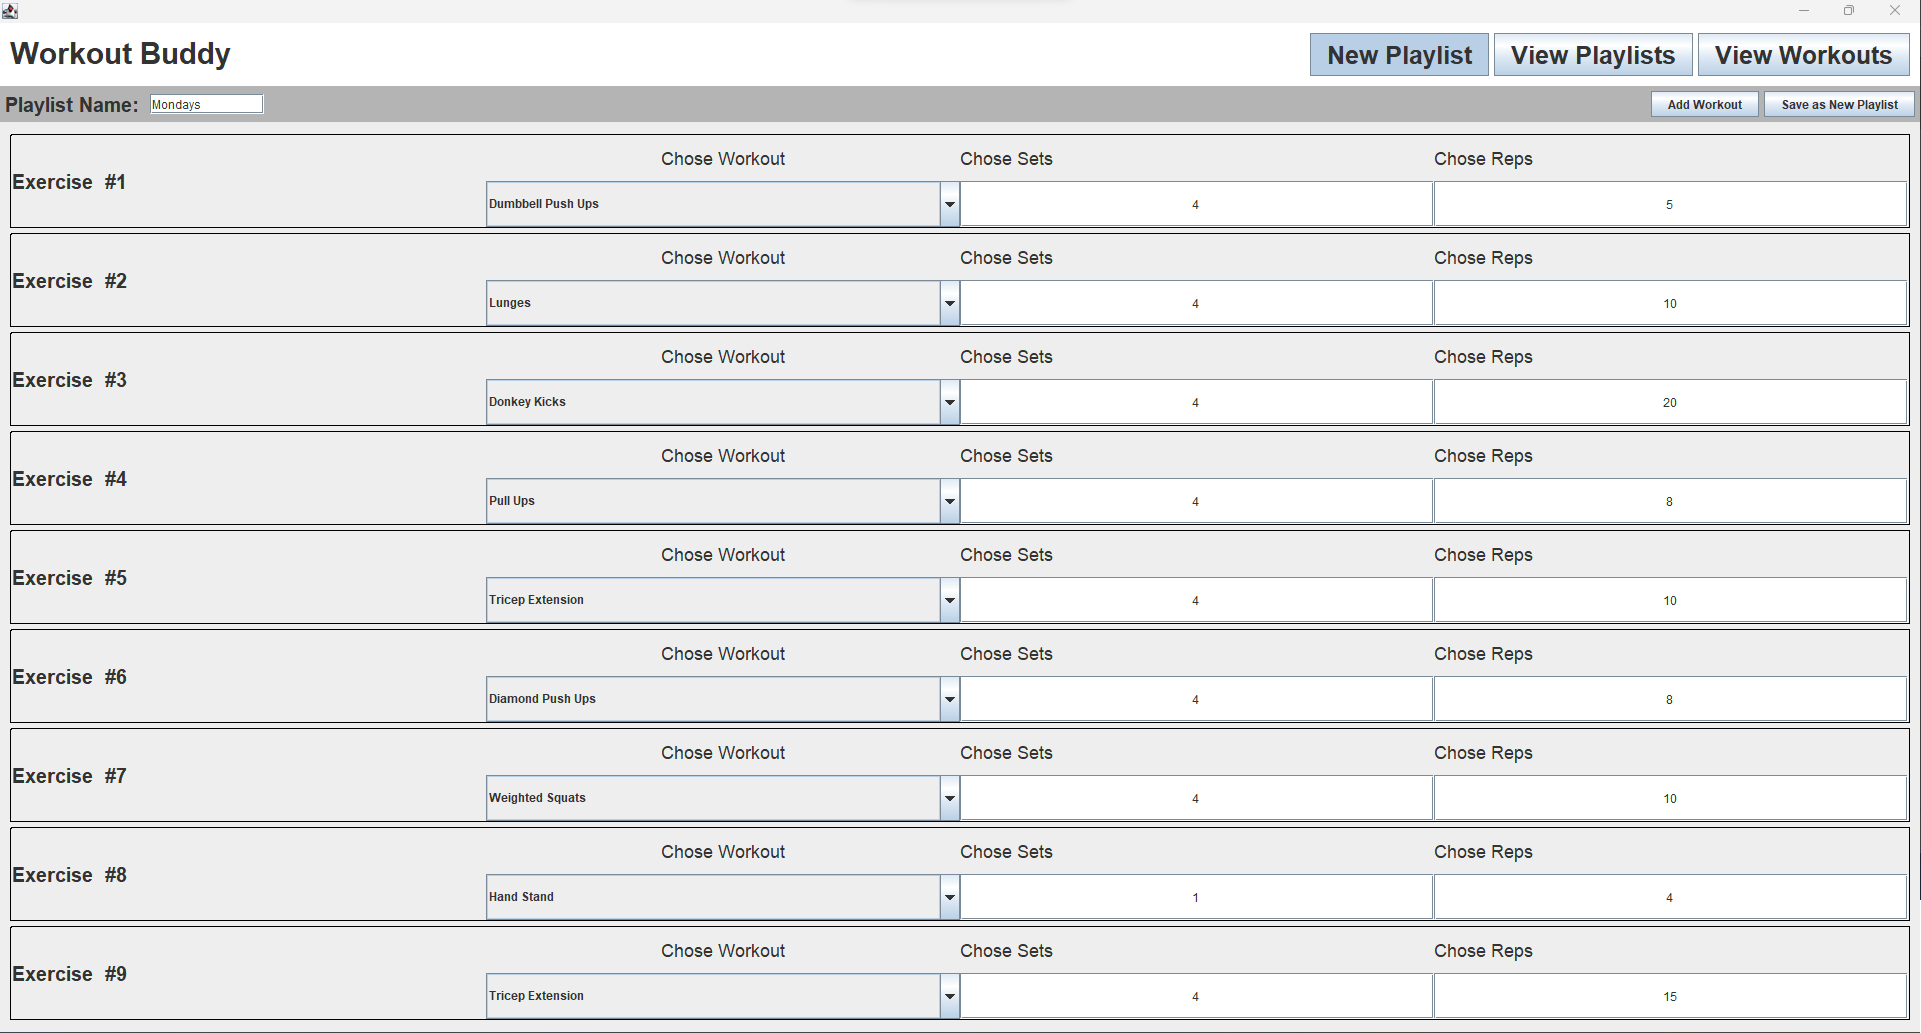
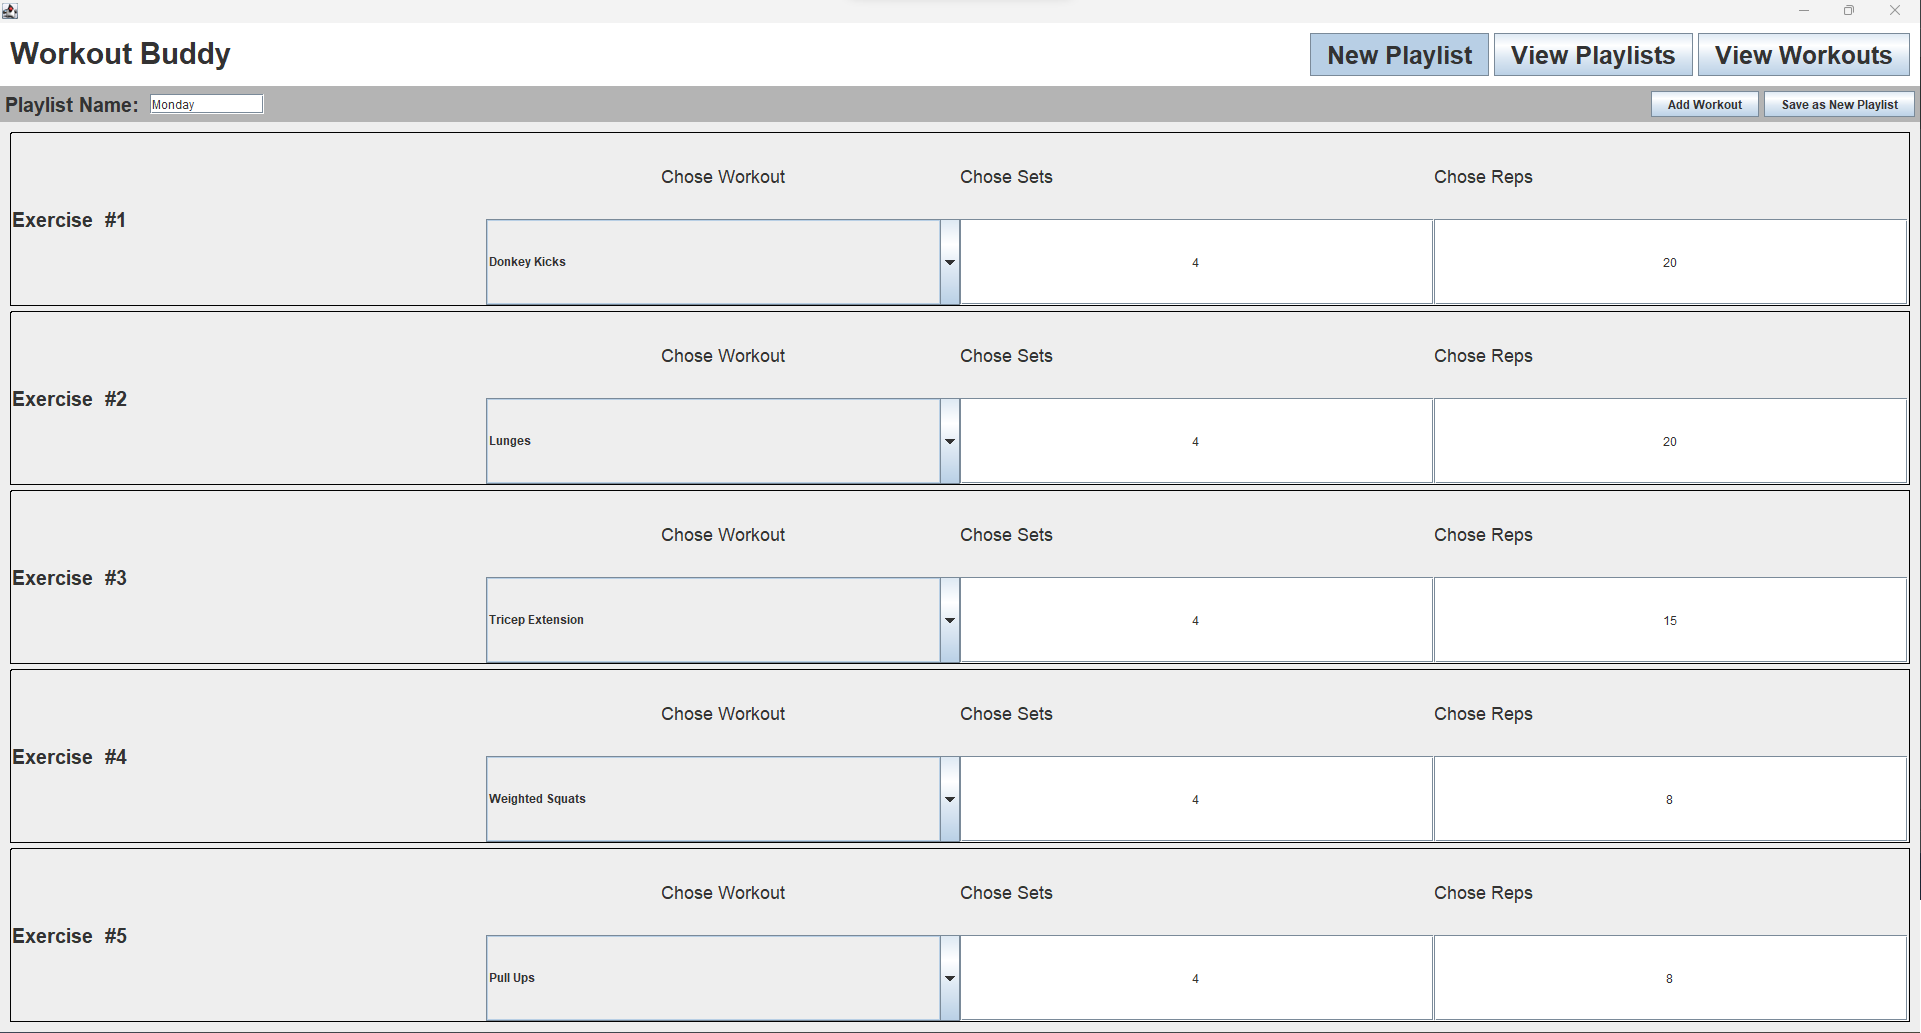
Fixed a glitch

diff --git a/View/MainMenu.java b/View/MainMenu.java
@@ -352,7 +352,7 @@ public class MainMenu implements ActionListener {
             // Generate list of exercises from the list of exercise containers
             Playlist ret = new Playlist(playlistName.getText());
             for(ExerciseContainer container : listExercises){
-                ret.add(new Exercise(workoutRepository.get(container.getWorkout()), container.getSets(), container.getReps()));
+                ret.add(new Exercise(workoutRepository.get(container.getWorkout()), container.getReps(), container.getSets()));
             }
 
             //Save to user list
